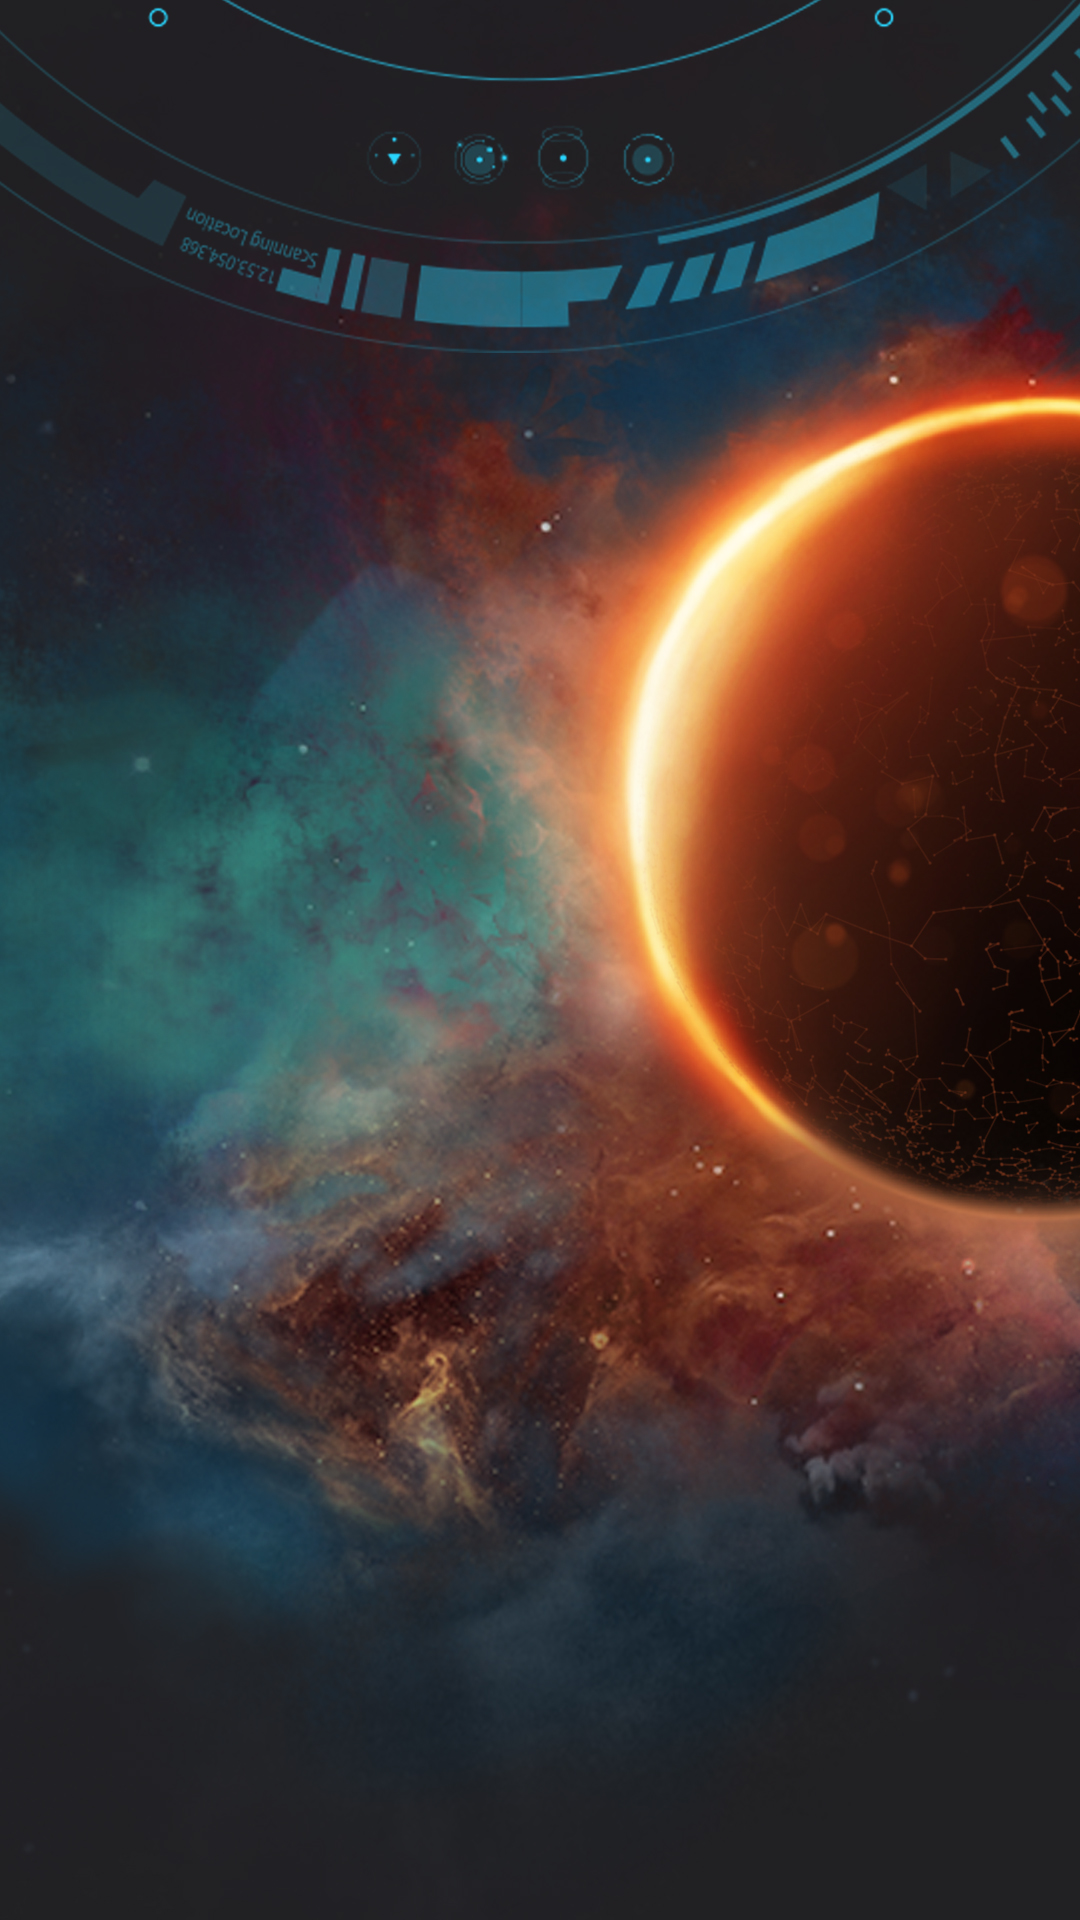
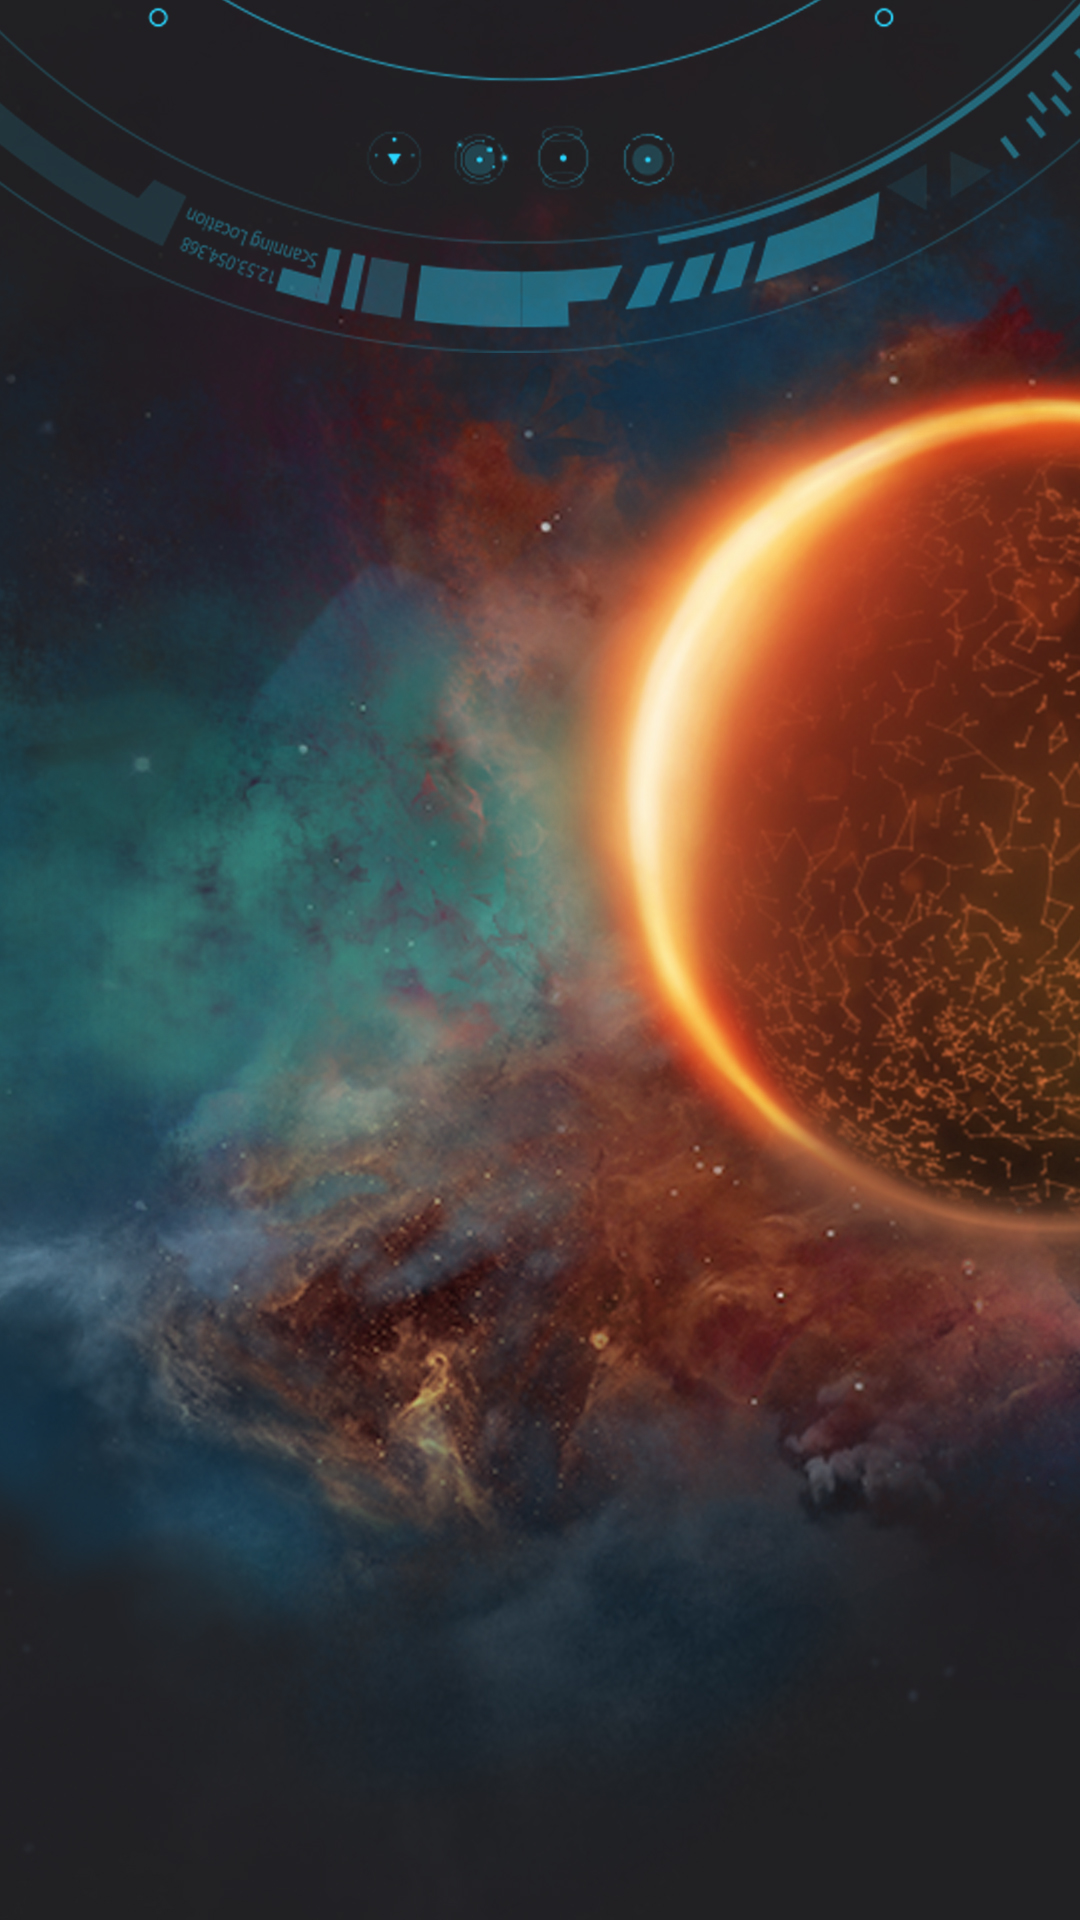
added animation...

Changed region(s): [[0.4583, 0.1562, 1.0, 0.6875]]

diff --git a/index.html b/index.html
@@ -8,6 +8,9 @@
 <body>
 
     <div class="scene">
+        <div class="animateSun">
+            <img src="assets/img/FrontPageEl/Trim-Start-of-Clip.gif" alt=""/>
+        </div>
         <div class="layer" data-depth="0.30">
             <img src="assets/img/FrontPageEl/Logo1.png" alt=""/>
         </div>
@@ -20,7 +23,7 @@
         <div class="layer" data-depth="0.15">
             <img src="assets/img/FrontPageEl/LogoBL2.png" alt=""/>
         </div>
-        <div class="layer" data-depth="0.2">
+        <div class="layer" data-depth="0.20">
             <img src="assets/img/FrontPageEl/LogoBL3.png" alt=""/>
         </div>
         <div class="layer" data-depth="0.60">
@@ -29,7 +32,7 @@
         <div class="layer" data-depth="0.30">
             <img src="assets/img/FrontPageEl/TitleBL1.png" alt=""/>
         </div>
-        <div class="layer" data-depth="0.85">
+        <div class="layer" data-depth="0.90">
             <img src="assets/img/FrontPageEl/TitleBL2.png" alt=""/>
         </div>
     </div>

diff --git a/assets/css/main.css b/assets/css/main.css
@@ -17,6 +17,17 @@ body,html{
     background: #212023 url(../img/FrontPageEl/BG.jpg) center center no-repeat;
 }
 
+.animateSun{
+    position: absolute;
+    z-index: 1;
+    right: 0;
+    top: 438px;
+}
+
+.layer{
+    z-index: 10;
+}
+
 .sun {
     width: 413px;
     height: 414px;
